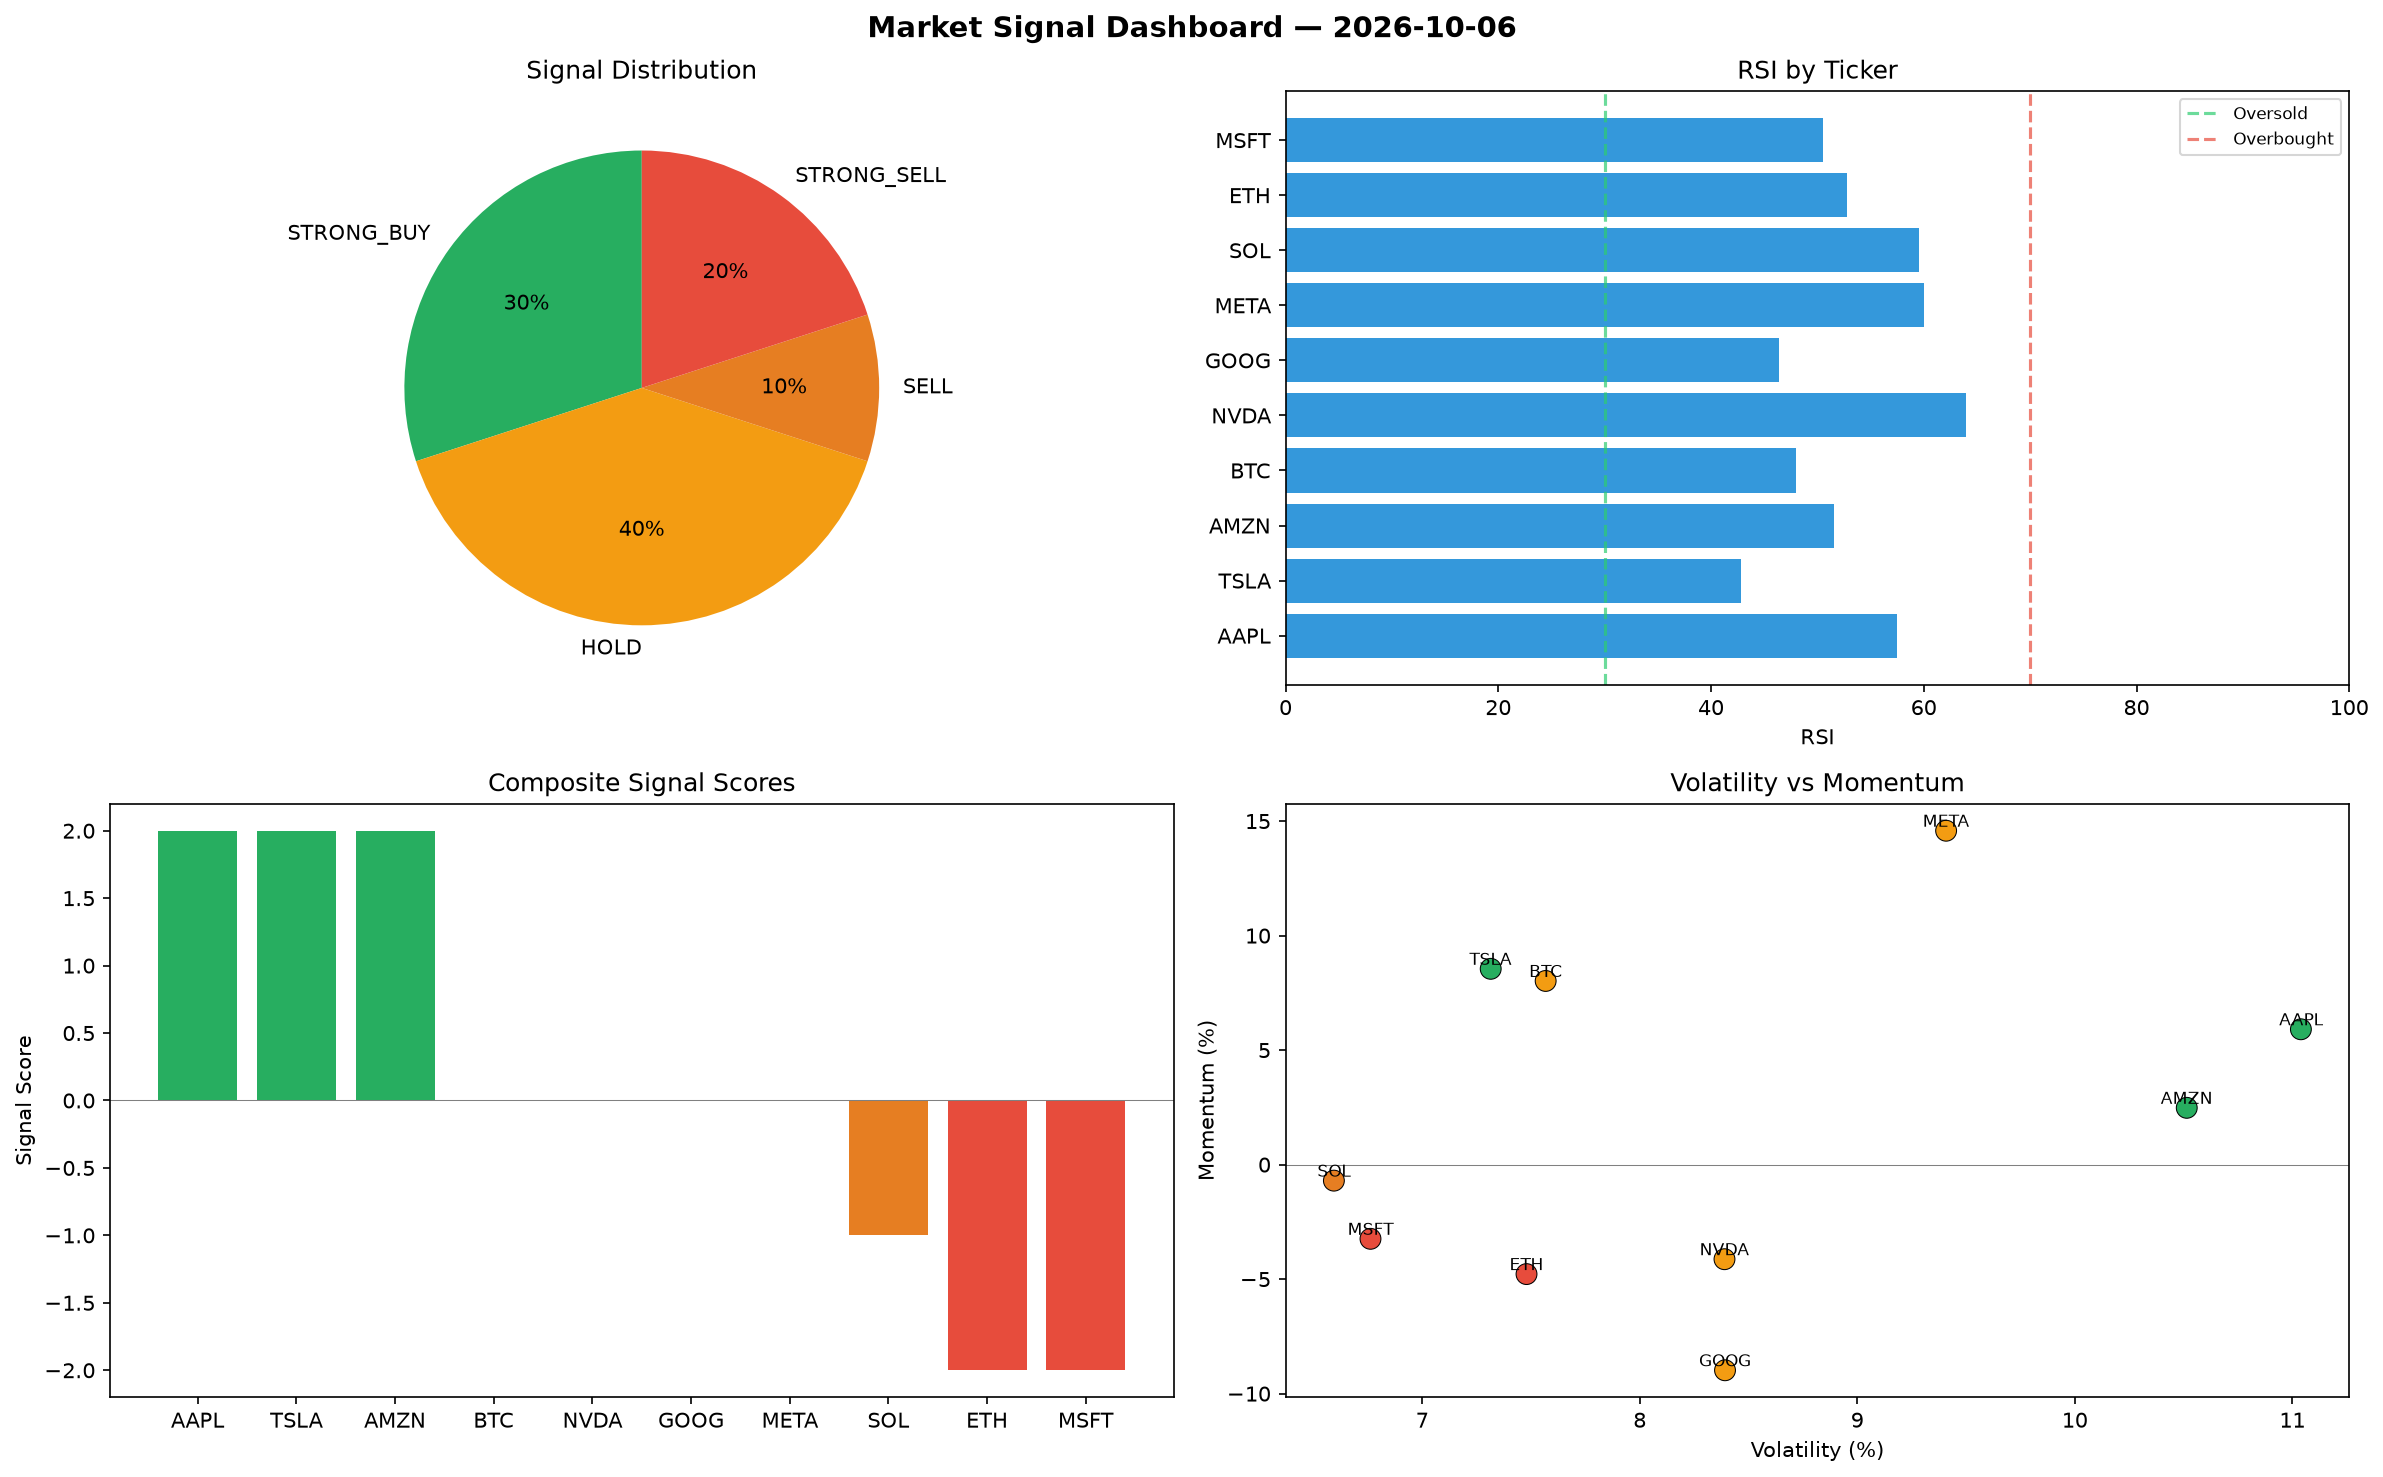
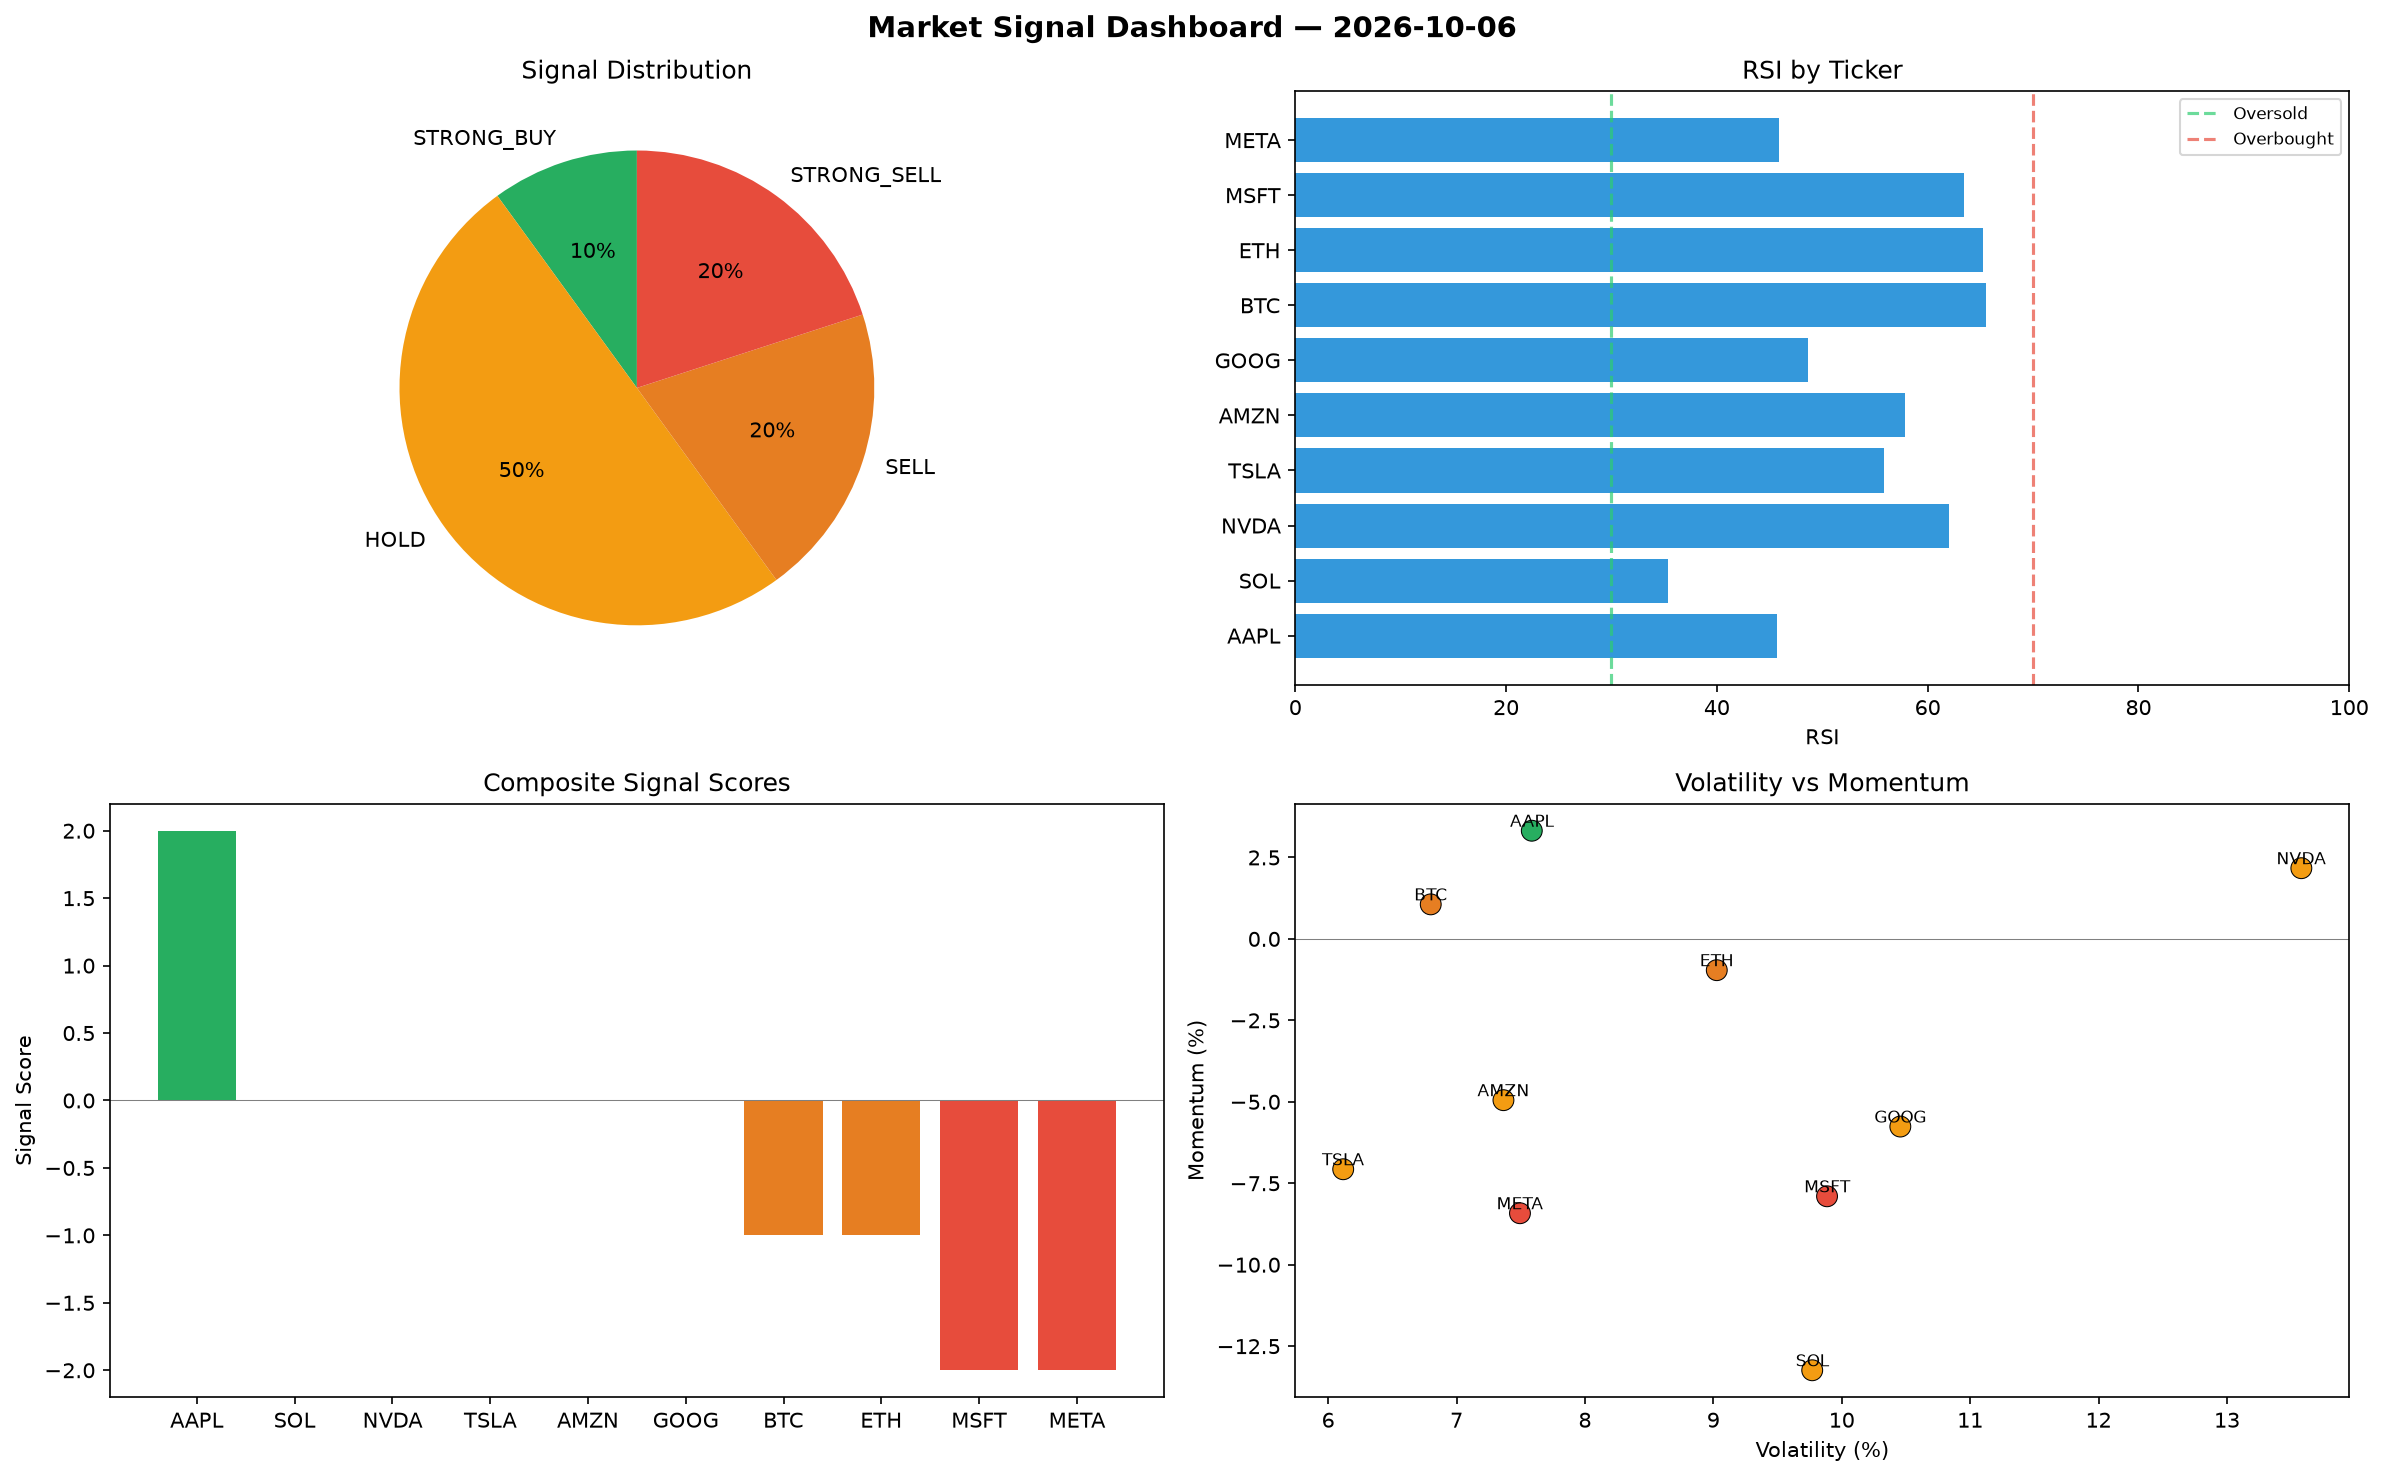
automated-bots: market signals 2026-10-06T23:54

diff --git a/logs/2026-10-06.md b/logs/2026-10-06.md
@@ -1,6 +1,6 @@
 # Market Signal Report — 2026-10-06
 
-**Run ID:** `c8230f2e5a` | **Buy:** 3 | **Sell:** 3 | **Hold:** 4
+**Run ID:** `d9b83a8291` | **Buy:** 1 | **Sell:** 4 | **Hold:** 5
 
 ![Dashboard](2026-10-06_dashboard.png)
 
@@ -8,28 +8,28 @@
 
 | Ticker | Price | Signal | Score | RSI | Momentum | Confidence |
 |--------|-------|--------|-------|-----|----------|------------|
-| AAPL | $143.86 | **STRONG_BUY** | 2 | 57.5 | 0.0591 | 0.5 |
-| TSLA | $1360.46 | **STRONG_BUY** | 2 | 42.84 | 0.0855 | 0.5 |
-| AMZN | $1546.59 | **STRONG_BUY** | 2 | 51.58 | 0.0248 | 0.5 |
-| BTC | $4763.25 | **HOLD** | 0 | 47.98 | 0.0802 | 0.0 |
-| NVDA | $4734.87 | **HOLD** | 0 | 63.99 | -0.0413 | 0.0 |
-| GOOG | $3167.1 | **HOLD** | 0 | 46.37 | -0.0898 | 0.0 |
-| META | $1454.97 | **HOLD** | 0 | 60.02 | 0.1458 | 0.0 |
-| SOL | $2817.6 | **SELL** | -1 | 59.51 | -0.007 | 0.25 |
-| ETH | $2041.84 | **STRONG_SELL** | -2 | 52.81 | -0.0478 | 0.5 |
-| MSFT | $912.34 | **STRONG_SELL** | -2 | 50.5 | -0.0324 | 0.5 |
+| AAPL | $3987.88 | **STRONG_BUY** | 2 | 45.75 | 0.0332 | 0.5 |
+| SOL | $1842.25 | **HOLD** | 0 | 35.4 | -0.1324 | 0.0 |
+| NVDA | $3484.12 | **HOLD** | 0 | 62.07 | 0.0217 | 0.0 |
+| TSLA | $3443.1 | **HOLD** | 0 | 55.86 | -0.0707 | 0.0 |
+| AMZN | $4192.58 | **HOLD** | 0 | 57.88 | -0.0495 | 0.0 |
+| GOOG | $135.7 | **HOLD** | 0 | 48.61 | -0.0576 | 0.0 |
+| BTC | $4018.5 | **SELL** | -1 | 65.51 | 0.0106 | 0.25 |
+| ETH | $4713.57 | **SELL** | -1 | 65.28 | -0.0096 | 0.25 |
+| MSFT | $765.83 | **STRONG_SELL** | -2 | 63.4 | -0.079 | 0.5 |
+| META | $4283.83 | **STRONG_SELL** | -2 | 45.91 | -0.0842 | 0.5 |
 
 ## Delta vs Yesterday
 
 | Ticker | Today | Yesterday | Price Change | Signal Changed |
 |--------|-------|-----------|-------------|----------------|
-| AAPL | STRONG_BUY | SELL | 📉 -91.46% | ⚠ YES |
-| TSLA | STRONG_BUY | HOLD | 📉 -72.7% | ⚠ YES |
-| AMZN | STRONG_BUY | HOLD | 📉 -59.61% | ⚠ YES |
-| BTC | HOLD | HOLD | 📈 6.15% | — |
-| NVDA | HOLD | STRONG_SELL | 📈 7.04% | ⚠ YES |
-| GOOG | HOLD | STRONG_SELL | 📈 51.81% | ⚠ YES |
-| META | HOLD | STRONG_SELL | 📉 -55.56% | ⚠ YES |
-| SOL | SELL | STRONG_BUY | 📈 1574.85% | ⚠ YES |
-| ETH | STRONG_SELL | STRONG_BUY | 📉 -23.52% | ⚠ YES |
-| MSFT | STRONG_SELL | STRONG_BUY | 📈 68.83% | ⚠ YES |
+| AAPL | STRONG_BUY | SELL | 📈 136.64% | ⚠ YES |
+| SOL | HOLD | STRONG_BUY | 📈 995.08% | ⚠ YES |
+| NVDA | HOLD | STRONG_SELL | 📉 -21.24% | ⚠ YES |
+| TSLA | HOLD | HOLD | 📉 -30.91% | — |
+| AMZN | HOLD | HOLD | 📈 9.48% | — |
+| GOOG | HOLD | STRONG_SELL | 📉 -93.5% | ⚠ YES |
+| BTC | SELL | HOLD | 📉 -10.45% | ⚠ YES |
+| ETH | SELL | STRONG_BUY | 📈 76.55% | ⚠ YES |
+| MSFT | STRONG_SELL | STRONG_BUY | 📈 41.72% | ⚠ YES |
+| META | STRONG_SELL | STRONG_SELL | 📈 30.84% | — |
